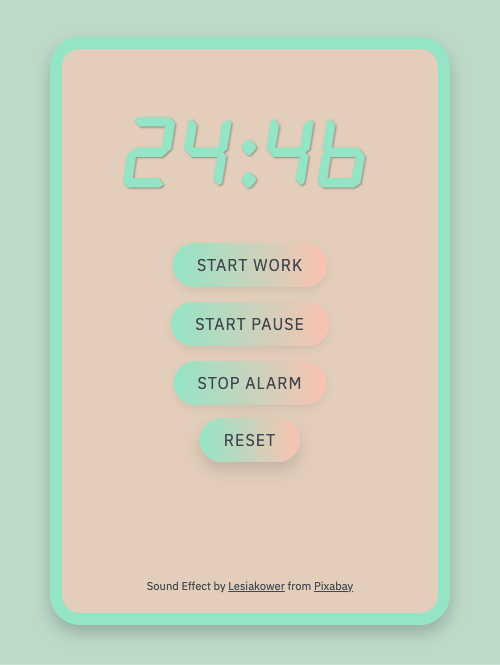
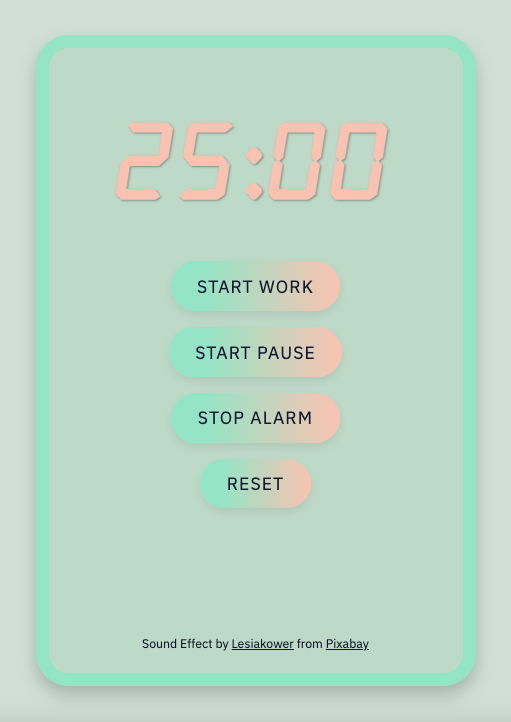
change design of pomodoro and start project of changing its color theme

diff --git a/pomodoro-timer/src/style.css b/pomodoro-timer/src/style.css
@@ -4,11 +4,11 @@
 :root {
   --digital-font: 'alarm clock', sans-serif;
   --alt-font: 'Anuphan', sans-serif;
-  --bg: #C5DECD;
-  --timer-bg: #E5D4C0;
-  --bright-green: #A1E8CC;
-  --pink: #FAC9B8;
-  --texts: #495159;
+  --bg: #d7e4db;
+  --timer-bg: #C5DECD;
+  --bright-color: #A1E8CC;
+  --bright-highlight: #FAC9B8;
+  --texts: #101935;
   --texts-rgb: 73, 81, 89;
 }
 *, 
@@ -26,6 +26,7 @@ body {
   display: flex;
   align-items: center; /* center child element vertically */
   justify-content: center; /* center child element horizontally */
+  flex-direction: column;
   background-color: var(--bg);
 }
 p, a, button{
@@ -40,13 +41,13 @@ p, a, button{
   border-radius: 30px;
   padding: 1.25rem;
   width: 400px;
-  border: 12px solid var(--bright-green);
+  border: 12px solid var(--bright-color);
   background-color: var(--timer-bg);
   box-shadow: 0 8px 16px rgba(var(--texts-rgb), 0.3);
 }
 .time-display {
   font-family: var(--digital-font);
-  color: var(--bright-green);
+  color: var(--bright-highlight);
   font-size: 6rem;
   font-weight: 600;
   margin-bottom: 2rem;
@@ -64,7 +65,7 @@ button {
   box-shadow: 0 4px 8px rgba(var(--texts-rgb), 0.1);
   transition: transform 0.3s ease-in-out, box-shadow 0.3s ease-in-out;
   margin-bottom: 15px;
-  background: linear-gradient(90deg, var(--bright-green) 0%, var(--pink) 100%);
+  background: linear-gradient(90deg, var(--bright-color) 20%, var(--bright-highlight) 100%);
   cursor: pointer;
 }
 button:hover {
@@ -76,3 +77,6 @@ p{
   font-size: 0.7rem;
   font-weight: 400;
 }
+/* #button-theme{
+  margin-top: 50px;
+} */

diff --git a/pomodoro-timer/src/changetheme.js b/pomodoro-timer/src/changetheme.js
@@ -1,0 +1,22 @@
+function changeTheme() {
+    // get the document style sheet
+    const styleSheet = document.styleSheets[0];
+  
+    // find the :root selector rule
+    let rootRule;
+    for (let i = 0; i < styleSheet.cssRules.length; i++) {
+      const rule = styleSheet.cssRules[i];
+      if (rule.selectorText === ':root') {
+        rootRule = rule;
+        break;
+      }
+    }
+  
+    // change the values of the variables
+    rootRule.style.setProperty('--bg', '#bcd4de');
+    rootRule.style.setProperty('--timer-bg', '#9dacb2');
+    rootRule.style.setProperty('--bright-color', '#1c2321');
+    rootRule.style.setProperty('--bright-highlight', '#5e6572');
+    rootRule.style.setProperty('--texts', '#eef1ef');
+    rootRule.style.setProperty('--texts-rgb', '47, 79, 79');
+  }

diff --git a/pomodoro-timer/src/index.html b/pomodoro-timer/src/index.html
@@ -18,5 +18,9 @@
             <p>Sound Effect by <a href="https://pixabay.com/users/lesiakower-25701529/?utm_source=link-attribution&amp;utm_medium=referral&amp;utm_campaign=music&amp;utm_content=113180">Lesiakower</a> from <a href="https://pixabay.com//?utm_source=link-attribution&amp;utm_medium=referral&amp;utm_campaign=music&amp;utm_content=113180">Pixabay</a></p>
         </div>
         <script src="./script.js"></script>
+        <!-- <div>
+            <button id="button-theme" onclick="changeTheme()">Change Color Theme</button>
+        </div>
+        <script src="./changetheme.js"></script> -->
     </body>
 </html>
